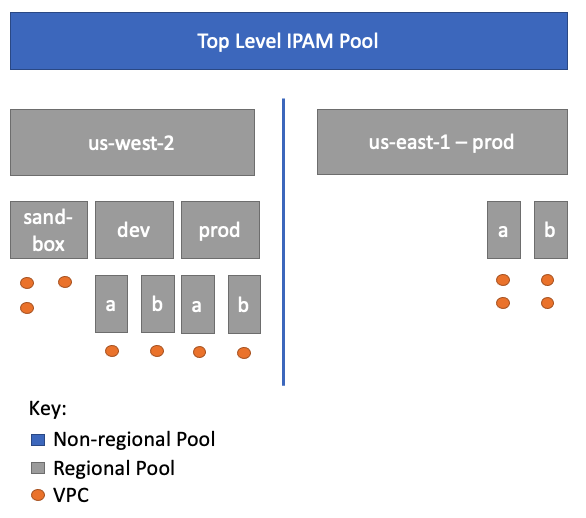
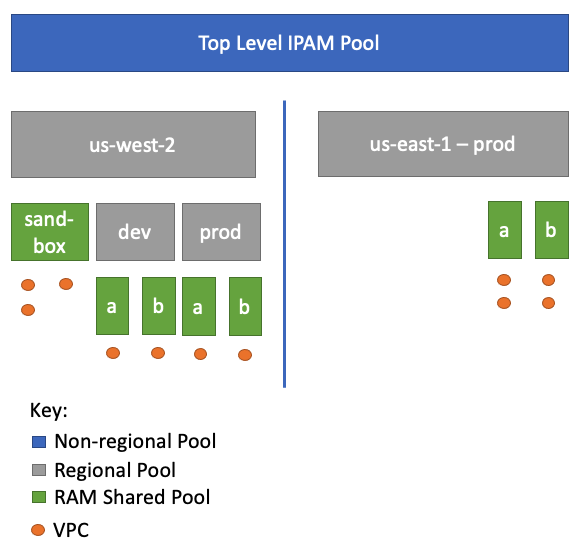
update graphics to show RAM shares

diff --git a/README.md b/README.md
@@ -1,7 +1,7 @@
 <!-- BEGIN_TF_DOCS -->
 # AWS IP Address Manager Deployment Module
 
-This module can deploy simple or complex AWS IPAM configurations. It is designed to flexible for many different use cases. The Most common use cases / IPAM designs are highlighted in the [examples/](./examples/) directory. Below is a representation of a symmetrically nested, multi-region deployment that is possible; its also represented in code in [examples/basic](examples/basic). But its also possible to do [asymmetically nested deployments](images/asymmetrical\_pool\_structure.png) as well.
+This module can deploy simple or complex AWS IPAM configurations. It is designed to flexible for many different use cases. The Most common use cases / IPAM designs are highlighted in the [examples/](./examples/) directory. Below is a representation of a symmetrically nested, multi-region deployment that is possible; Its also possible to do [asymmetically nested deployments](images/asymmetrical\_pool\_structure.png) as well which we have as an [example](./examples/basic).
 
 ## Possible Symmetically Nested Pool Structure
 

diff --git a/.header.md b/.header.md
@@ -1,6 +1,6 @@
 # AWS IP Address Manager Deployment Module
 
-This module can deploy simple or complex AWS IPAM configurations. It is designed to flexible for many different use cases. The Most common use cases / IPAM designs are highlighted in the [examples/](./examples/) directory. Below is a representation of a symmetrically nested, multi-region deployment that is possible; its also represented in code in [examples/basic](examples/basic). But its also possible to do [asymmetically nested deployments](images/asymmetrical_pool_structure.png) as well.
+This module can deploy simple or complex AWS IPAM configurations. It is designed to flexible for many different use cases. The Most common use cases / IPAM designs are highlighted in the [examples/](./examples/) directory. Below is a representation of a symmetrically nested, multi-region deployment that is possible; Its also possible to do [asymmetically nested deployments](images/asymmetrical_pool_structure.png) as well which we have as an [example](./examples/basic).
 
 ## Possible Symmetically Nested Pool Structure
 
